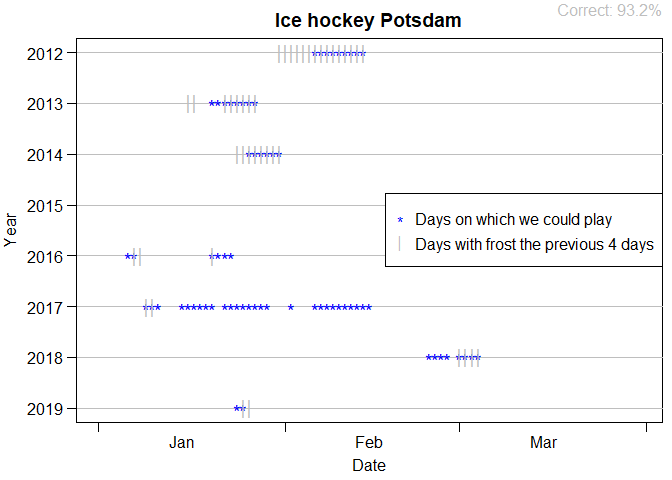
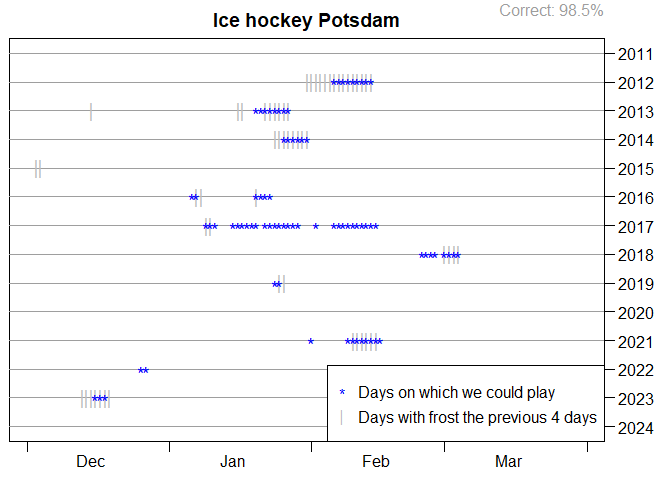
update

diff --git a/README.md b/README.md
@@ -5,7 +5,7 @@
 
 Whenever it gets cold enough during the winter, I love to play ice
 hockey on the lakes in Potsdam, see
-[bit.ly/eis\_mt](https://bit.ly/eis_mt).  
+[bit.ly/eis_mt](https://bit.ly/eis_mt).  
 This hobby started 2012: Till Francke gave a course on numerical
 modelling in which we predicted ice thickness. I told about my ice
 skating experience (as model verification) and he invited me out to
@@ -30,19 +30,23 @@ days all had a maximum temperature below zero.
 
 ![](README_files/figure-gfm/icemodel-1.png)<!-- -->
 
-This is good enough for me\! I see some potentially missed chances in
+This is good enough for me! I see some potentially missed chances in
 earlier years and the results of some aggressive advertising through our
-mailing list in the spirit of **“the ice shall hold\!”** later on (we
+mailing list in the spirit of **“the ice shall hold!”** later on (we
 never broke through the ice).  
 So next time after two or three days of frost, I will be checking 10
 different weather prognosis services - and yet probably be even more
 excited than I was in previous years.
 
+### vis
+
+Here are the playable days (<span style="color:blue">\*</span>) along
+with temperature: ![](README_files/figure-gfm/icevis-1.png)<!-- -->
+
 ### play
 
-You live near Potsdam and want to join? You can\! Very much so\!  
-Subscribe to the mailing list at
-[bit.ly/eis\_mt](https://bit.ly/eis_mt).
+You live near Potsdam and want to join? You can! Very much so!  
+Subscribe to the mailing list at [bit.ly/eis_mt](https://bit.ly/eis_mt).
 
 ### code
 
@@ -67,7 +71,7 @@ The data in the first years is not as complete as in later years
 (especially 2012 when I was late to the party). With the increasing
 number of people in the mailing list, lag time decreased ^^. Also, in
 2019 we discovered a pond that freezes much earlier than the lakes we
-played on previously (again, see [bit.ly/eis\_mt](https://bit.ly/eis_mt)
+played on previously (again, see [bit.ly/eis_mt](https://bit.ly/eis_mt)
 for the locations).  
 I did not play on all the days myself, but also recorded when other
 people from our mailing list were on.
